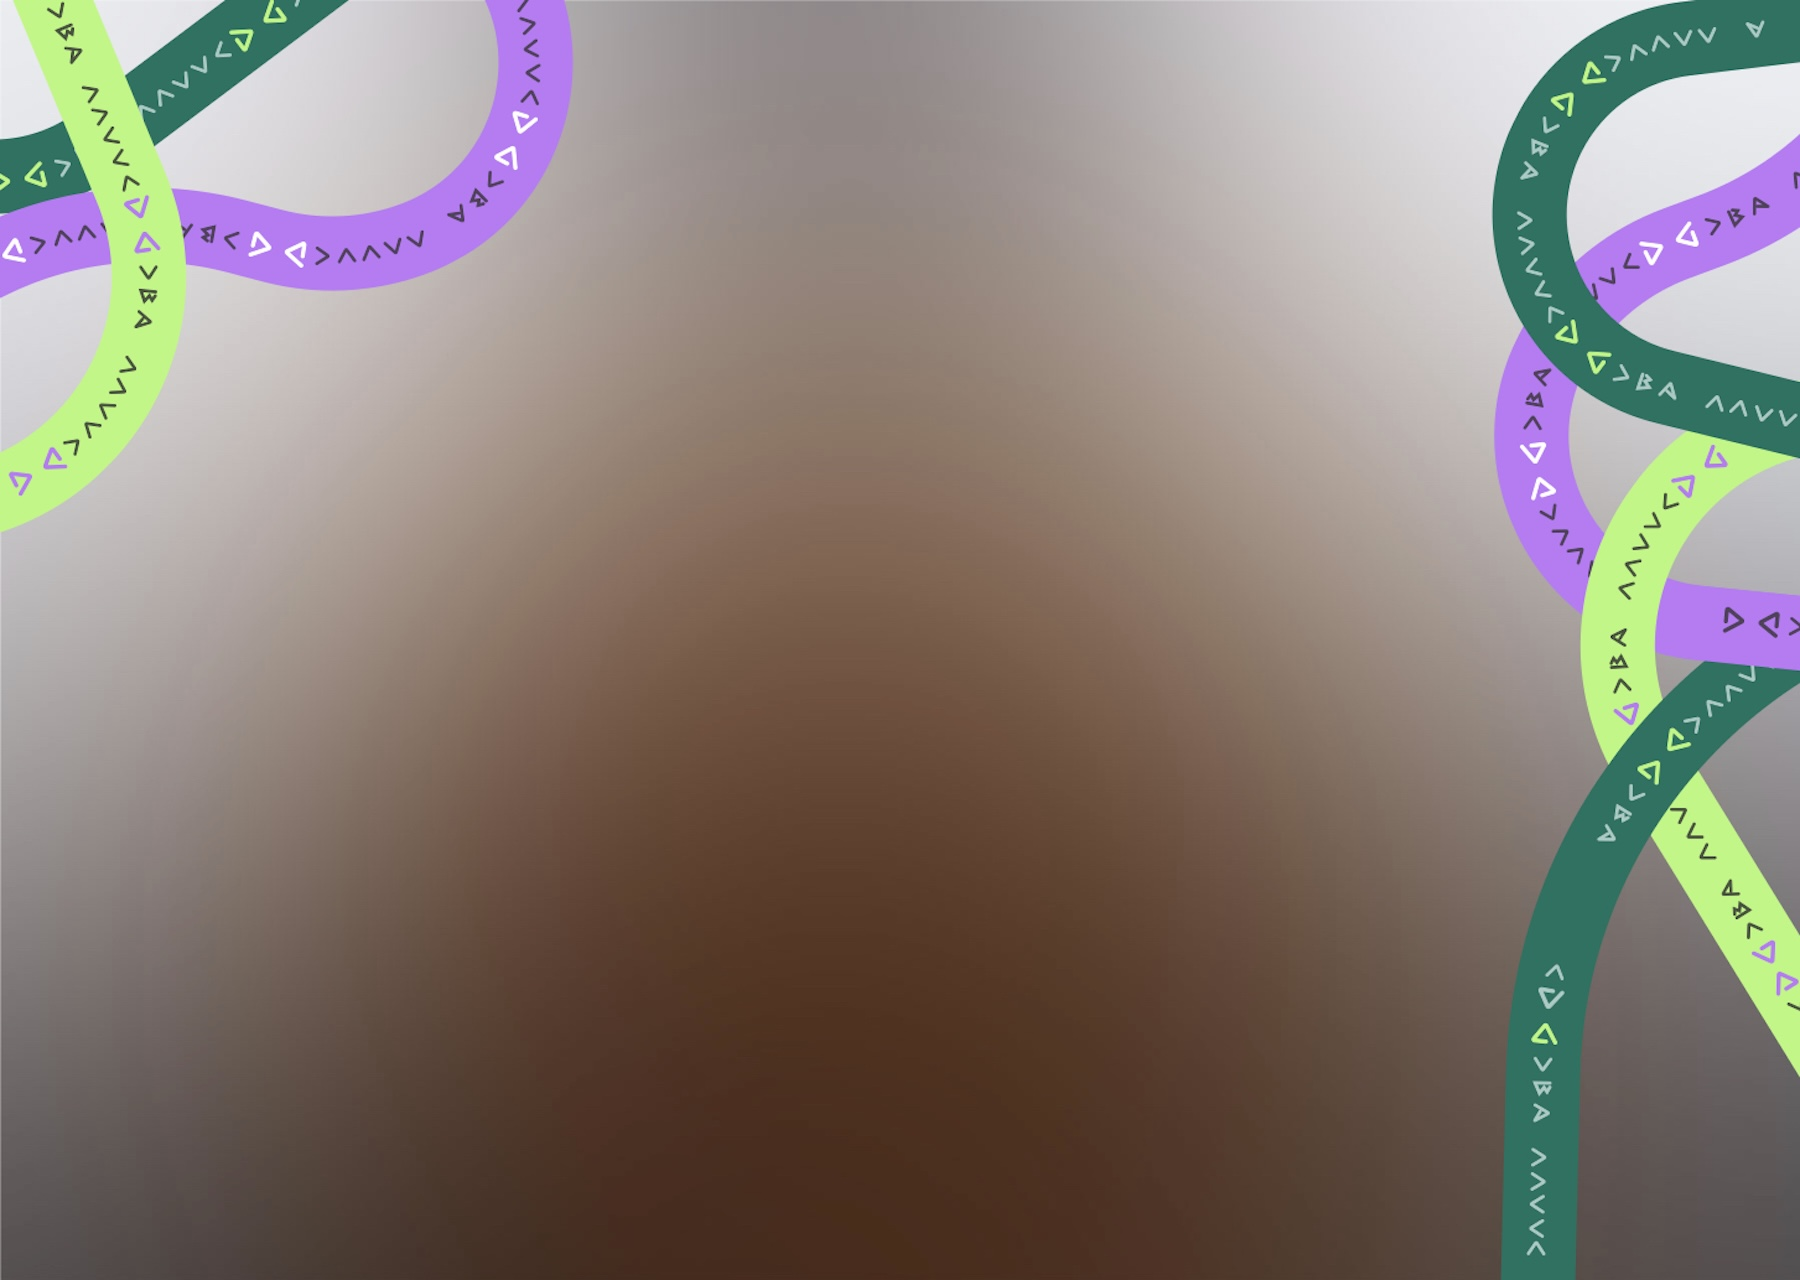
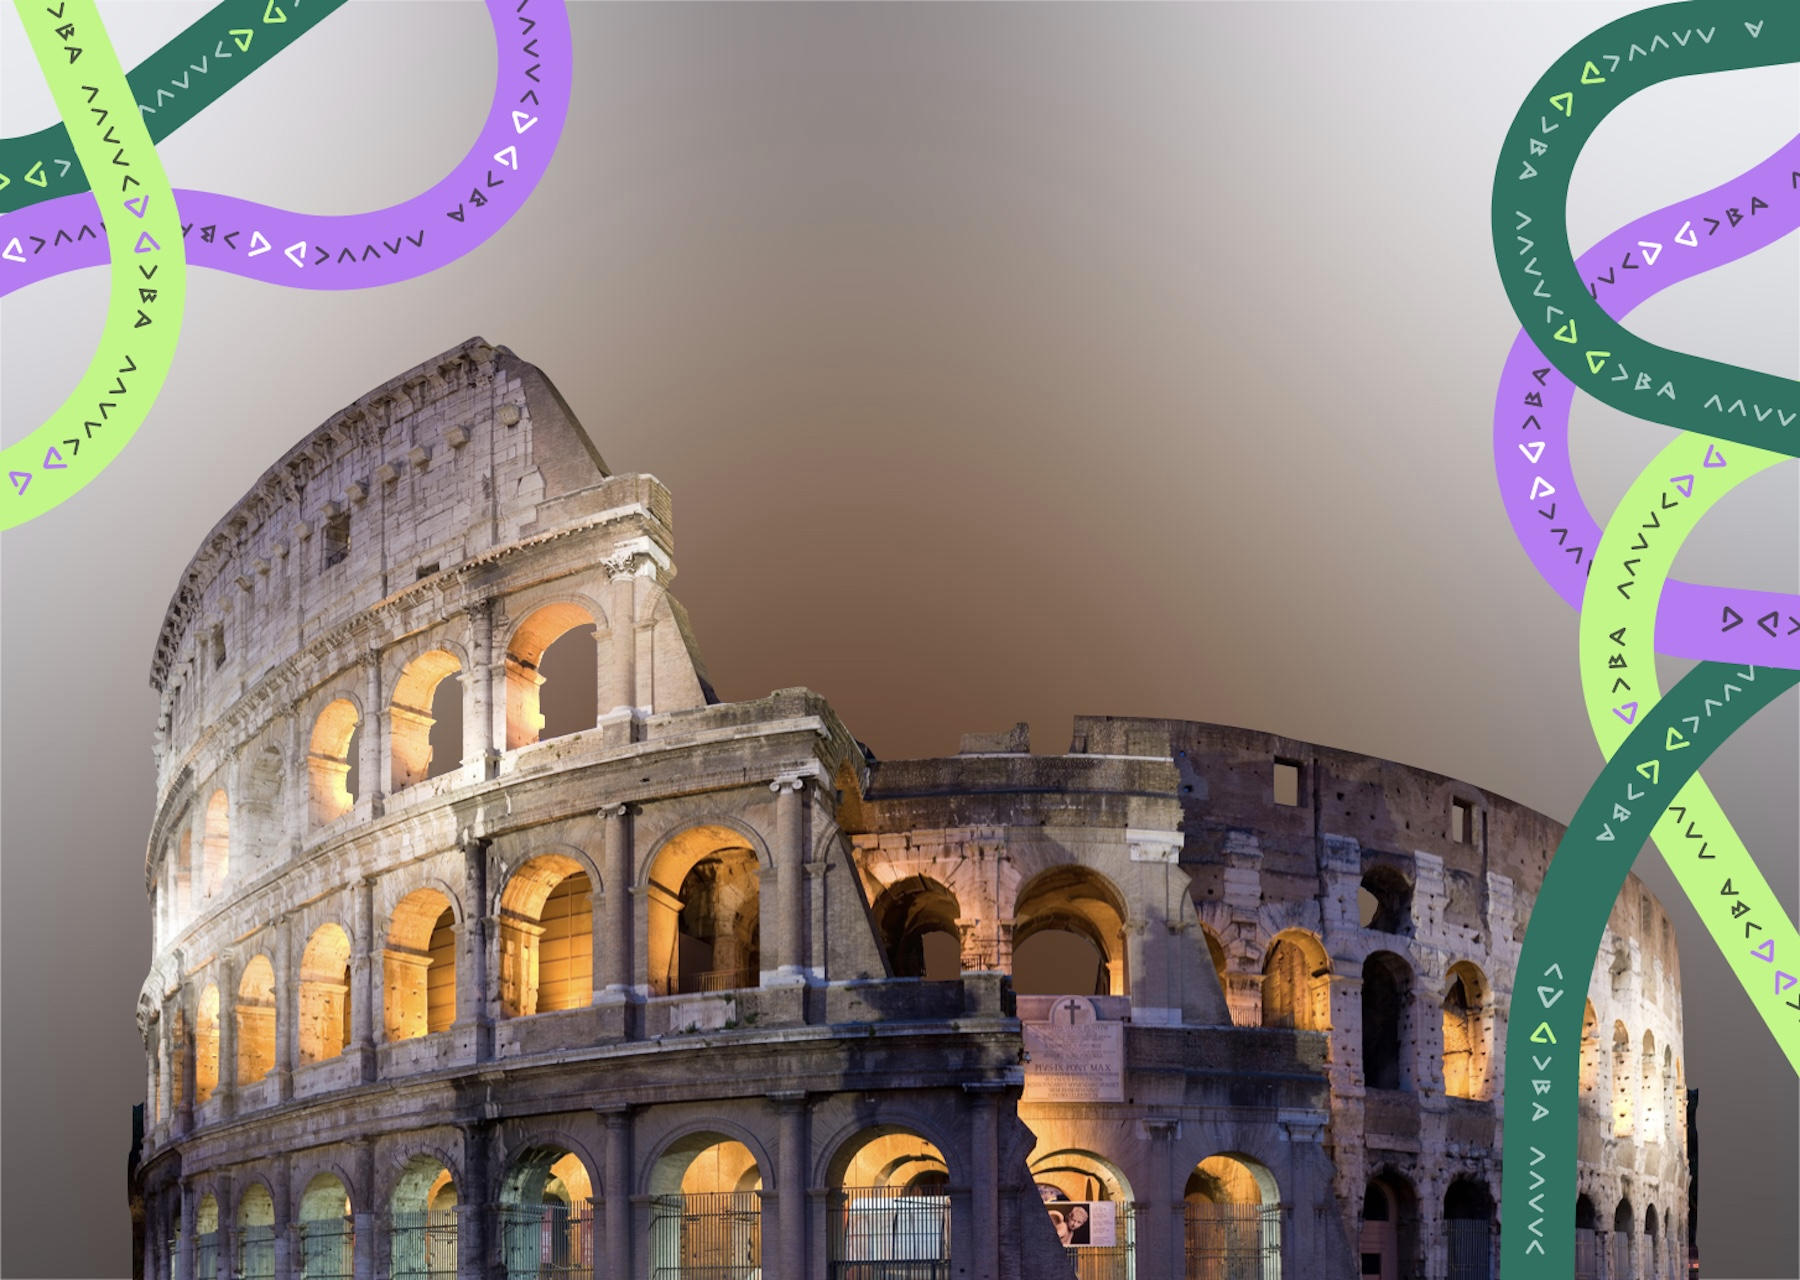
2025 is online now

diff --git a/css/main.scss b/css/main.scss
@@ -1869,8 +1869,8 @@ $baseurl: '{{ site.baseurl }}/images';
 		}
 	}
 
-	// NEW STUFF
-	/* Dropdown Button */
+// NEW STUFF
+/* Dropdown Button */
 .dropbtn {
 	background-color: #3498DB;
 	color: white;
@@ -1878,39 +1878,40 @@ $baseurl: '{{ site.baseurl }}/images';
 	font-size: 16px;
 	border: none;
 	cursor: pointer;
-  }
-  
-  /* Dropdown button on hover & focus */
-  .dropbtn:hover, .dropbtn:focus {
+}
+
+/* Dropdown button on hover & focus */
+.dropbtn:hover, .dropbtn:focus {
 	background-color: #2980B9;
-  }
-  
-  /* The container <div> - needed to position the dropdown content */
-  .dropdown {
+}
+
+/* The container <div> - needed to position the dropdown content */
+.dropdown {
 	position: relative;
 	display: inline-block;
-  }
-  
-  /* Dropdown Content (Hidden by Default) */
-  .dropdown-content {
+}
+
+/* Dropdown Content (Hidden by Default) */
+.dropdown-content {
 	display: none;
 	position: absolute;
 	background-color: #f1f1f1;
 	min-width: 160px;
 	box-shadow: 0px 8px 16px 0px rgba(0,0,0,0.2);
 	z-index: 1;
-  }
-  
-  /* Links inside the dropdown */
-  .dropdown-content a {
+}
+
+/* Links inside the dropdown */
+.dropdown-content a {
 	color: black;
 	padding: 12px 16px;
 	text-decoration: none;
 	display: block;
-  }
-  
-  /* Change color of dropdown links on hover */
-  .dropdown-content a:hover {background-color: #ddd;}
-  
-  /* Show the dropdown menu (use JS to add this class to the .dropdown-content container when the user clicks on the dropdown button) */
-  .show {display:block;}
+}
+
+/* Change color of dropdown links on hover */
+.dropdown-content a:hover {background-color: #ddd;}
+
+/* Show the dropdown menu (use JS to add this class to the .dropdown-content container when the user clicks on the dropdown button) */
+.show {display:block;}
+

diff --git a/_includes/banner.html b/_includes/banner.html
@@ -19,8 +19,9 @@
         </h3>	
         <section class="wrapper style4 special">
             <div class="inner">
+                <h2>Rome, June 5&ndash;6, 2025</h2>
                 <ul class="actions">
-                    <li><a target="_blank" href="https://www.youtube.com/playlist?list=PLMghyTzL5NYh2mV6lRaXGO2sbgsbOHT1T" class="button big special icon fa-video-camera">Talks 2024</a></li>
+                    <li><a target="_blank" href="https://forms.gle/EXg623obsjoJfkd69" class="button big special icon fa-paper-plane">Pre-sale //2025</a></li>
                 </ul>
             </div>
         </section>                            
@@ -49,8 +50,9 @@
         </h3>	
         <section class="wrapper style4 special">
             <div class="inner">
+                <h2>Roma, 5&ndash;6 Giugno 2025</h2>
                 <ul class="actions">
-                    <li><a target="_blank" href="https://www.youtube.com/playlist?list=PLMghyTzL5NYh2mV6lRaXGO2sbgsbOHT1T" class="button big special icon fa-video-camera">Talks 2024</a></li>
+                    <li><a target="_blank" href="https://forms.gle/EXg623obsjoJfkd69" class="button big special icon fa-paper-plane">Prevendita //2025</a></li>
                 </ul>
             </div>
         </section>                            

diff --git a/_includes/2025calltoaction.html b/_includes/2025calltoaction.html
@@ -2,7 +2,7 @@
 <section class="wrapper style3 special">
     <div class="inner">
         <ul class="actions">
-            <li><a target="_blank" href="https://forms.gle/Poeh6yzhChyScH6r5" class="button big special icon fa-bullhorn">Become a Speaker</a></li>
+            <li><a target="_blank" href="https://forms.gle/jraGaYMSRpD6JpZi7" class="button big special icon fa-bullhorn">Become a Speaker</a></li>
             <li><a target="_blank" href="#" class="button big disabled icon fa-ticket">Buy tickets (Soon!)</a></li>
         </ul>
     </div>
@@ -11,7 +11,7 @@
 <section class="wrapper style3 special">
     <div class="inner">
         <ul class="actions">
-            <li><a target="_blank" href="https://forms.gle/Poeh6yzhChyScH6r5" class="button big special icon fa-bullhorn">Diventa Speaker</a></li>
+            <li><a target="_blank" href="https://forms.gle/jraGaYMSRpD6JpZi7" class="button big special icon fa-bullhorn">Diventa Speaker</a></li>
             <li><a target="_blank" href="#" class="button big disabled icon fa-ticket">Biglietti (Presto!)</a></li>
         </ul>
     </div>

diff --git a/_includes/2024tickets.html b/_includes/2024tickets.html
@@ -2,7 +2,6 @@
 <section class="wrapper style4 special">
     <div class="inner">
         <ul class="actions">
-            <li><a target="_blank" href="https://www.youtube.com/playlist?list=PLMghyTzL5NYh2mV6lRaXGO2sbgsbOHT1T" class="button big icon fa-video-camera">See all Talks</a></li>
             <li><a target="_blank" href="#" class="button big disabled icon fa-ticket">Buy tickets</a></li>
         </ul>
     </div>
@@ -11,7 +10,6 @@
 <section class="wrapper style4 special">
     <div class="inner">
         <ul class="actions">
-            <li><a target="_blank" href="https://www.youtube.com/playlist?list=PLMghyTzL5NYh2mV6lRaXGO2sbgsbOHT1T" class="button big">Vedi i Talk</a></li>
             <li><a target="_blank" href="#" class="button big disabled">Biglietti</a></li>
         </ul>
     </div>

diff --git a/_includes/2024agenda.html b/_includes/2024agenda.html
@@ -6,6 +6,13 @@
             <h2>Agenda 2024</h2>
             <p>/dev/games</p>
         </header>
+        <section class="wrapper style4 special">
+            <div class="inner">
+                <ul class="actions">
+                    <li><a target="_blank" href="https://www.youtube.com/playlist?list=PLMghyTzL5NYh2mV6lRaXGO2sbgsbOHT1T" class="button big special icon fa-video-camera">Talks //2024</a></li>
+                </ul>
+            </div>
+        </section>                            
         <div class="table-wrapper">
             <table>
                 <tbody>

diff --git a/en/2024.html b/en/2024.html
@@ -1,6 +1,6 @@
 ---
 layout: page
-title: /dev/games/2024
+title: //2024
 lang: en
 ---
 

diff --git a/it/2024.html b/it/2024.html
@@ -1,6 +1,6 @@
 ---
 layout: page
-title: /dev/games/2024
+title: //2024
 lang: it
 ---
 
